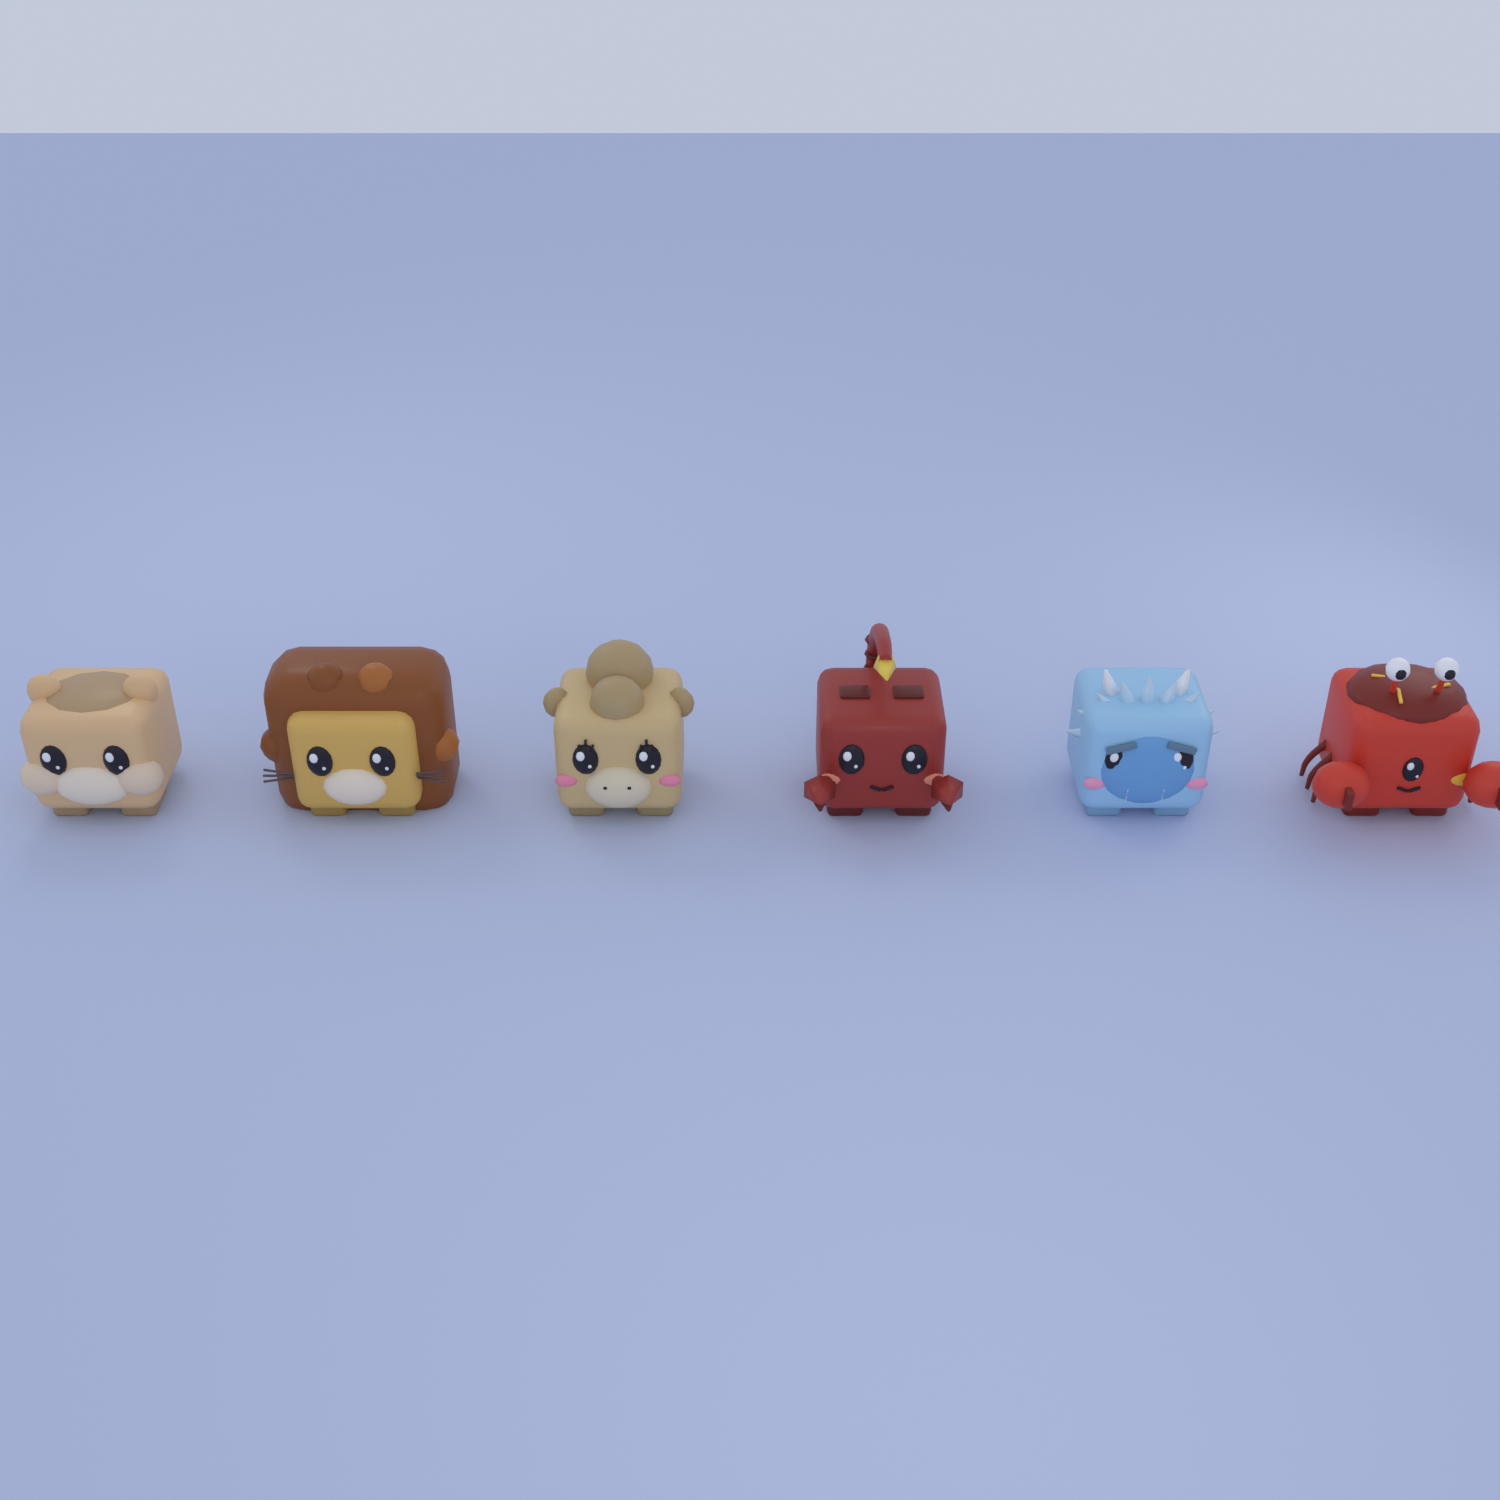
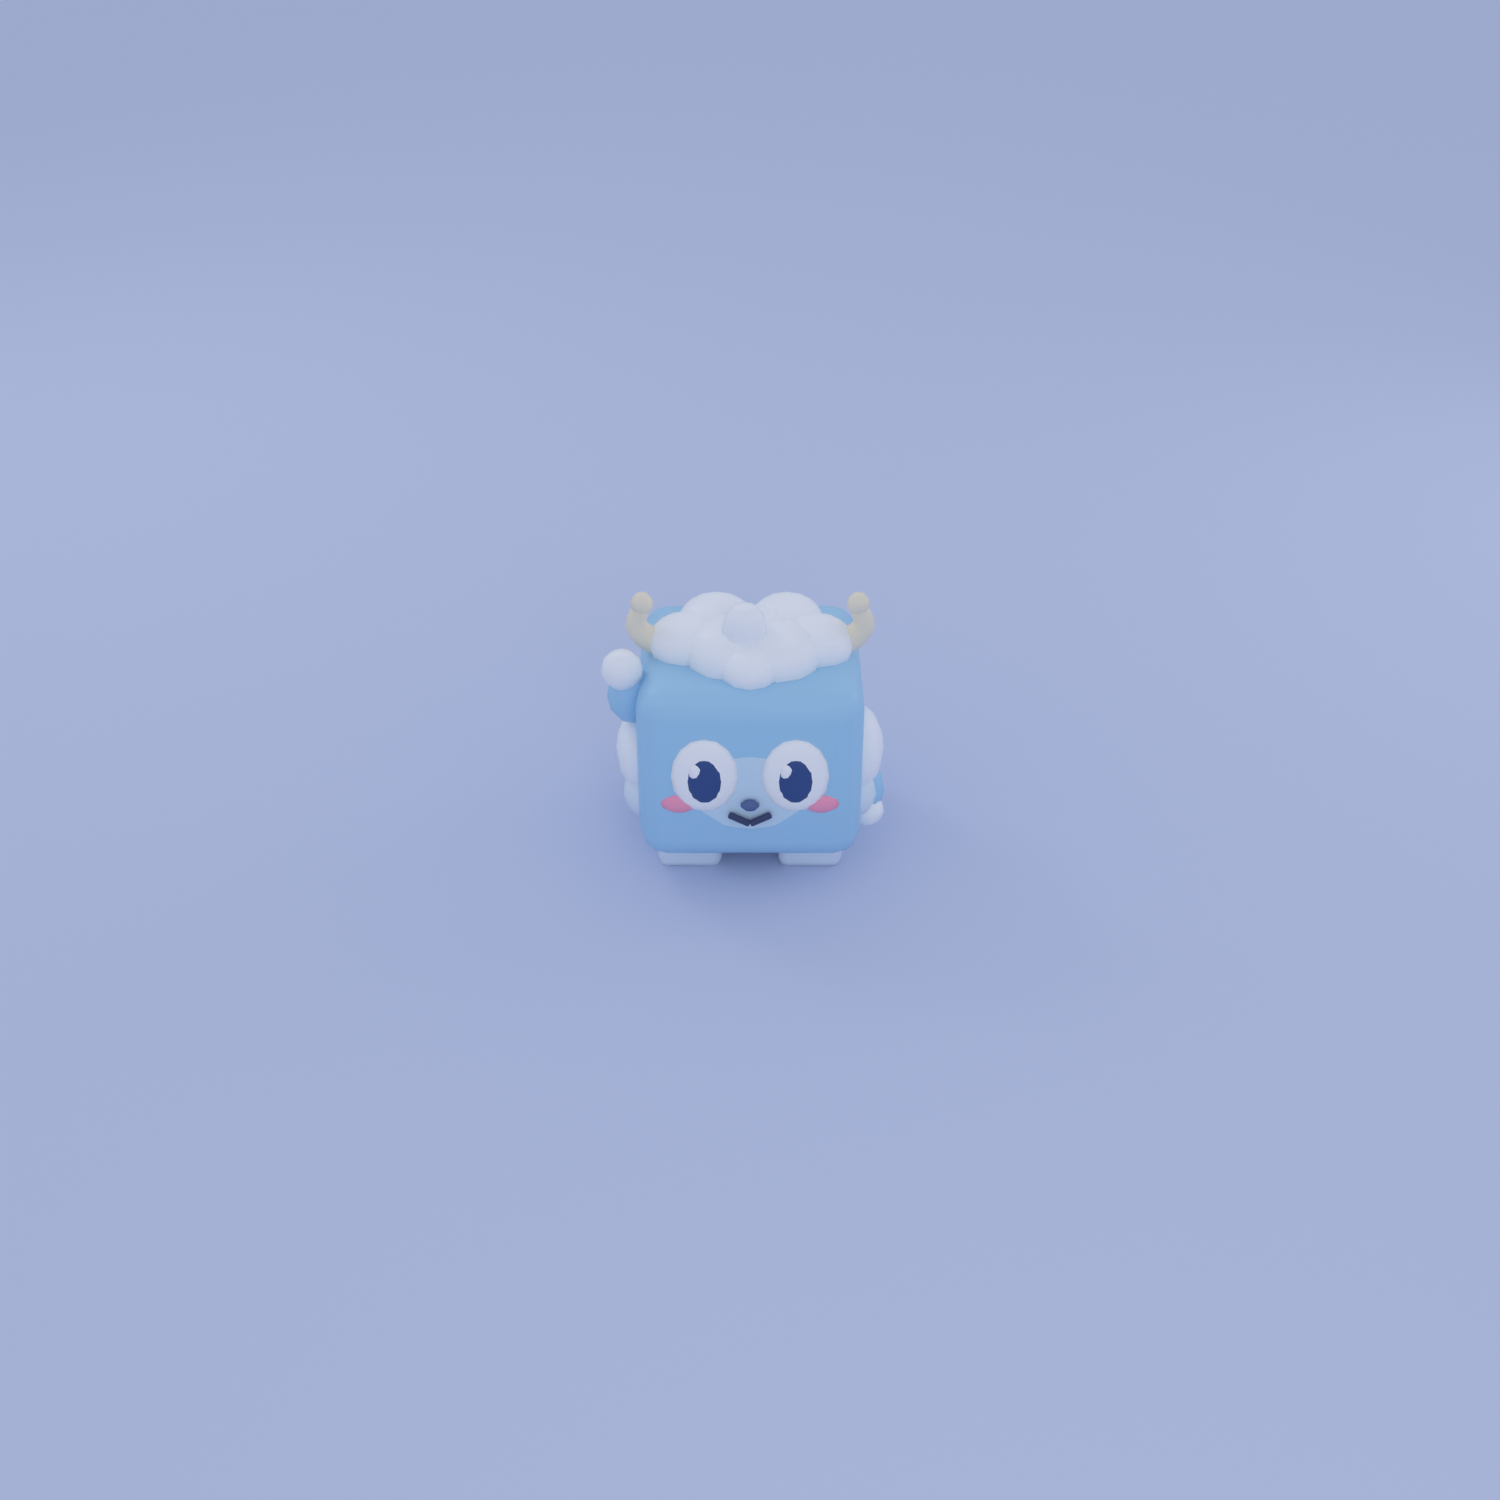
Yeti yeniden modellendi: sevimli (tuy sapkasi, kivrik boynuz, iri goz, gulumseme); yakin onizleme araci

Changed region(s): [[0.0, 0.3987, 0.6747, 0.6133], [0.0, 0.0, 1.0, 0.092], [0.7053, 0.4293, 1.0, 0.5827]]

diff --git a/tools/blender/pets_more.py b/tools/blender/pets_more.py
@@ -227,22 +227,41 @@ def polarbear(m, C):
 
 
 def yeti(m, C):
-    face = (120, 175, 225)
-    fur = lighter(C, 0.5)
-    P.base(m, C, feet=darker(C, 0.15))
-    for index in range(9):  # yüzün çevresinde sert tüy dikenleri
-        a = math.pi * 0.05 + index * math.pi * 0.9 / 8
-        m.cone((math.cos(a) * 1.0, 0.25, CZ + 0.1 + math.sin(a) * 0.95), 0.2, 0.02, 0.6, fur, rot=(0, 90 - math.degrees(a), 0), verts=5, name="FurSpike")
-    m.ball((0, FRONT - 0.05, CZ - 0.02), (0.82, 0.18, 0.7), face, seg=16, rings=10, name="Face")
-    for s in (-1, 1):
-        m.cone((0.62 * s, 0.0, TOP + 0.18), 0.18, 0.03, 0.5, WHITE, rot=(0, 16 * s, 0), verts=5, name="Horn")
-        m.cone((0.3 * s, FRONT + 0.0, CZ - 0.5), 0.1, 0.02, 0.3, WHITE, rot=(180, 0, 0), verts=4, name="Tusk")
-        m.box((0.5 * s, FRONT + 0.06, CZ + 0.46), (0.5, 0.07, 0.12), darker(C, 0.35), bevel=0.02, rot=(0, -16 * s, 0), name="Brow")
-    P.eyes(m, "bead", size=1.0, dz=0.18)
-    m.box((0, FRONT + 0.06, CZ - 0.38), (0.6, 0.05, 0.1), (60, 70, 110), bevel=0.02, name="Mouth")
-    P.nose(m, (60, 70, 110), -0.18, 1.2)
-    P.cheeks(m, (255, 170, 200), 0.85, -0.3)
-    P.tail_ball(m, fur, 0.3)
+    """SEVİMLİ YETİ (2026-10-18, sahibi eski modele 'çok kötü duruyor, yeniden modelle' dedi: kızgın kaşlar, dişler ve sert tüy dikenleri kaldırıldı).
+    Starter Pack görselindeki Yeti'ye göre: buz mavisi kutu gövde, başın üstünde ve yanaklarda YUMUŞAK beyaz tüy topları, tüyün arasından çıkan
+    küçük kıvrık boynuzlar, iri parlak gözler, gülümseme, pembe yanaklar, bir pati el sallıyor."""
+    fur = (250, 252, 255)
+    fur_shade = (226, 238, 250)
+    face = lighter(C, 0.45)
+    horn = (245, 236, 215)
+    P.base(m, C, feet=fur_shade)
+    # yüz: gövdeden açık renkli yumuşak oval
+    m.ball((0, FRONT - 0.07, CZ - 0.1), (0.86, 0.09, 0.66), face, seg=18, rings=10, name="Face")
+    # başın üstünde kabarık tüy şapkası (iç içe toplar)
+    for x, y, r in ((-0.62, 0.05, 0.36), (-0.25, 0.25, 0.42), (0.18, 0.2, 0.44), (0.6, 0.02, 0.36),
+                    (-0.35, -0.35, 0.36), (0.32, -0.32, 0.38), (0.0, -0.05, 0.4), (0.0, 0.48, 0.3)):
+        m.ball((x, y, TOP + 0.06), (r, r, r * 0.72), fur, seg=12, rings=8, name="FurCap")
+    m.ball((0.05, 0.3, TOP + 0.36), (0.22, 0.2, 0.26), fur, seg=10, rings=6, name="FurTuft")  # tepede küçük kâkül
+    for s_ in (-1, 1):
+        # yanlarda kabarık yanak tüyleri
+        m.ball((1.02 * s_, 0.25, CZ - 0.05), (0.26, 0.42, 0.42), fur, seg=12, rings=8, name="SideFur")
+        m.ball((1.0 * s_, 0.42, CZ - 0.42), (0.22, 0.3, 0.26), fur_shade, seg=10, rings=6, name="SideFur")
+        # küçük kıvrık boynuzlar (tüyün arasından yukarı-dışarı)
+        m.tube([(0.78 * s_, 0.0, TOP - 0.02), (1.05 * s_, 0.02, TOP + 0.22), (1.0 * s_, 0.04, TOP + 0.46)], 0.14, horn, name="Horn")
+        m.ball((1.0 * s_, 0.04, TOP + 0.48), (0.11, 0.11, 0.11), horn, seg=8, rings=5, name="HornTip")
+    # iri parlak gözler (beyaz + koyu mavi göz bebeği + parıltı)
+    P.eyes(m, "white", spread=0.42, dz=0.1, size=1.18, color=(40, 60, 110), iris=(50, 80, 140))
+    # gülümseme
+    for s_ in (-1, 1):
+        m.box((0.1 * s_, FRONT + 0.05, CZ - 0.36), (0.22, 0.05, 0.06), (60, 70, 110), bevel=0.015, rot=(0, -28 * s_, 0), name="Smile")
+    m.ball((0, FRONT + 0.05, CZ - 0.2), (0.09, 0.05, 0.06), (90, 110, 160), seg=8, rings=5, name="Nose")
+    P.cheeks(m, (255, 165, 195), 0.66, -0.22, 0.9)
+    # el sallayan sağ pati (yukarıda) ve sol pati (yanda aşağıda)
+    m.ball((1.12, 0.35, CZ + 0.62), (0.22, 0.2, 0.3), C, seg=10, rings=6, name="WaveArm")
+    m.ball((1.18, 0.42, CZ + 0.92), (0.2, 0.18, 0.2), fur, seg=10, rings=6, name="WavePaw")
+    m.ball((-1.1, 0.35, CZ - 0.45), (0.2, 0.2, 0.26), C, seg=10, rings=6, name="Arm")
+    m.ball((-1.12, 0.42, CZ - 0.66), (0.18, 0.17, 0.16), fur, seg=10, rings=6, name="Paw")
+    P.tail_ball(m, fur, 0.32)
 
 
 # ------------------------------------------------------------------ yumurta 5 (lava)

diff --git a/tools/blender/pet_closeup.py b/tools/blender/pet_closeup.py
@@ -1,0 +1,22 @@
+"""Tek bir petin YAKIN önizlemesi (3/4 açı): blender -b -P tools/blender/pet_closeup.py -- yeti
+Çıktı: assets/blender/previews/pet_<id>_closeup.png (pets_more.py / pets.py çizicilerini kullanır)."""
+import os
+import sys
+
+sys.path.insert(0, os.path.dirname(os.path.abspath(__file__)))
+import common as c  # noqa: E402
+import pets as P  # noqa: E402
+import pets_more as PM  # noqa: E402
+from lib import Model  # noqa: E402
+
+pet_id = c.argv_after_dashes()[0]
+builders = {pid: (fn, col) for pid, fn, col in PM.PETS}
+fn, col = builders[pet_id]
+c.reset()
+c.setup_render(resolution=900, samples=40)
+model = Model("pet_" + pet_id)
+fn(model, col)
+obj = model.finish(os.path.join(c.OUT, "textures"))
+c.add_floor((205, 214, 240), size=40)
+c.add_lights(center=(0, 0, 1.2), distance=10)
+c.render_view(os.path.join(c.OUT, "previews", f"pet_{pet_id}_closeup.png"), center=(0, 0, 1.25), distance=7.5, azimuth_deg=22, elevation_deg=14, lens=50)
